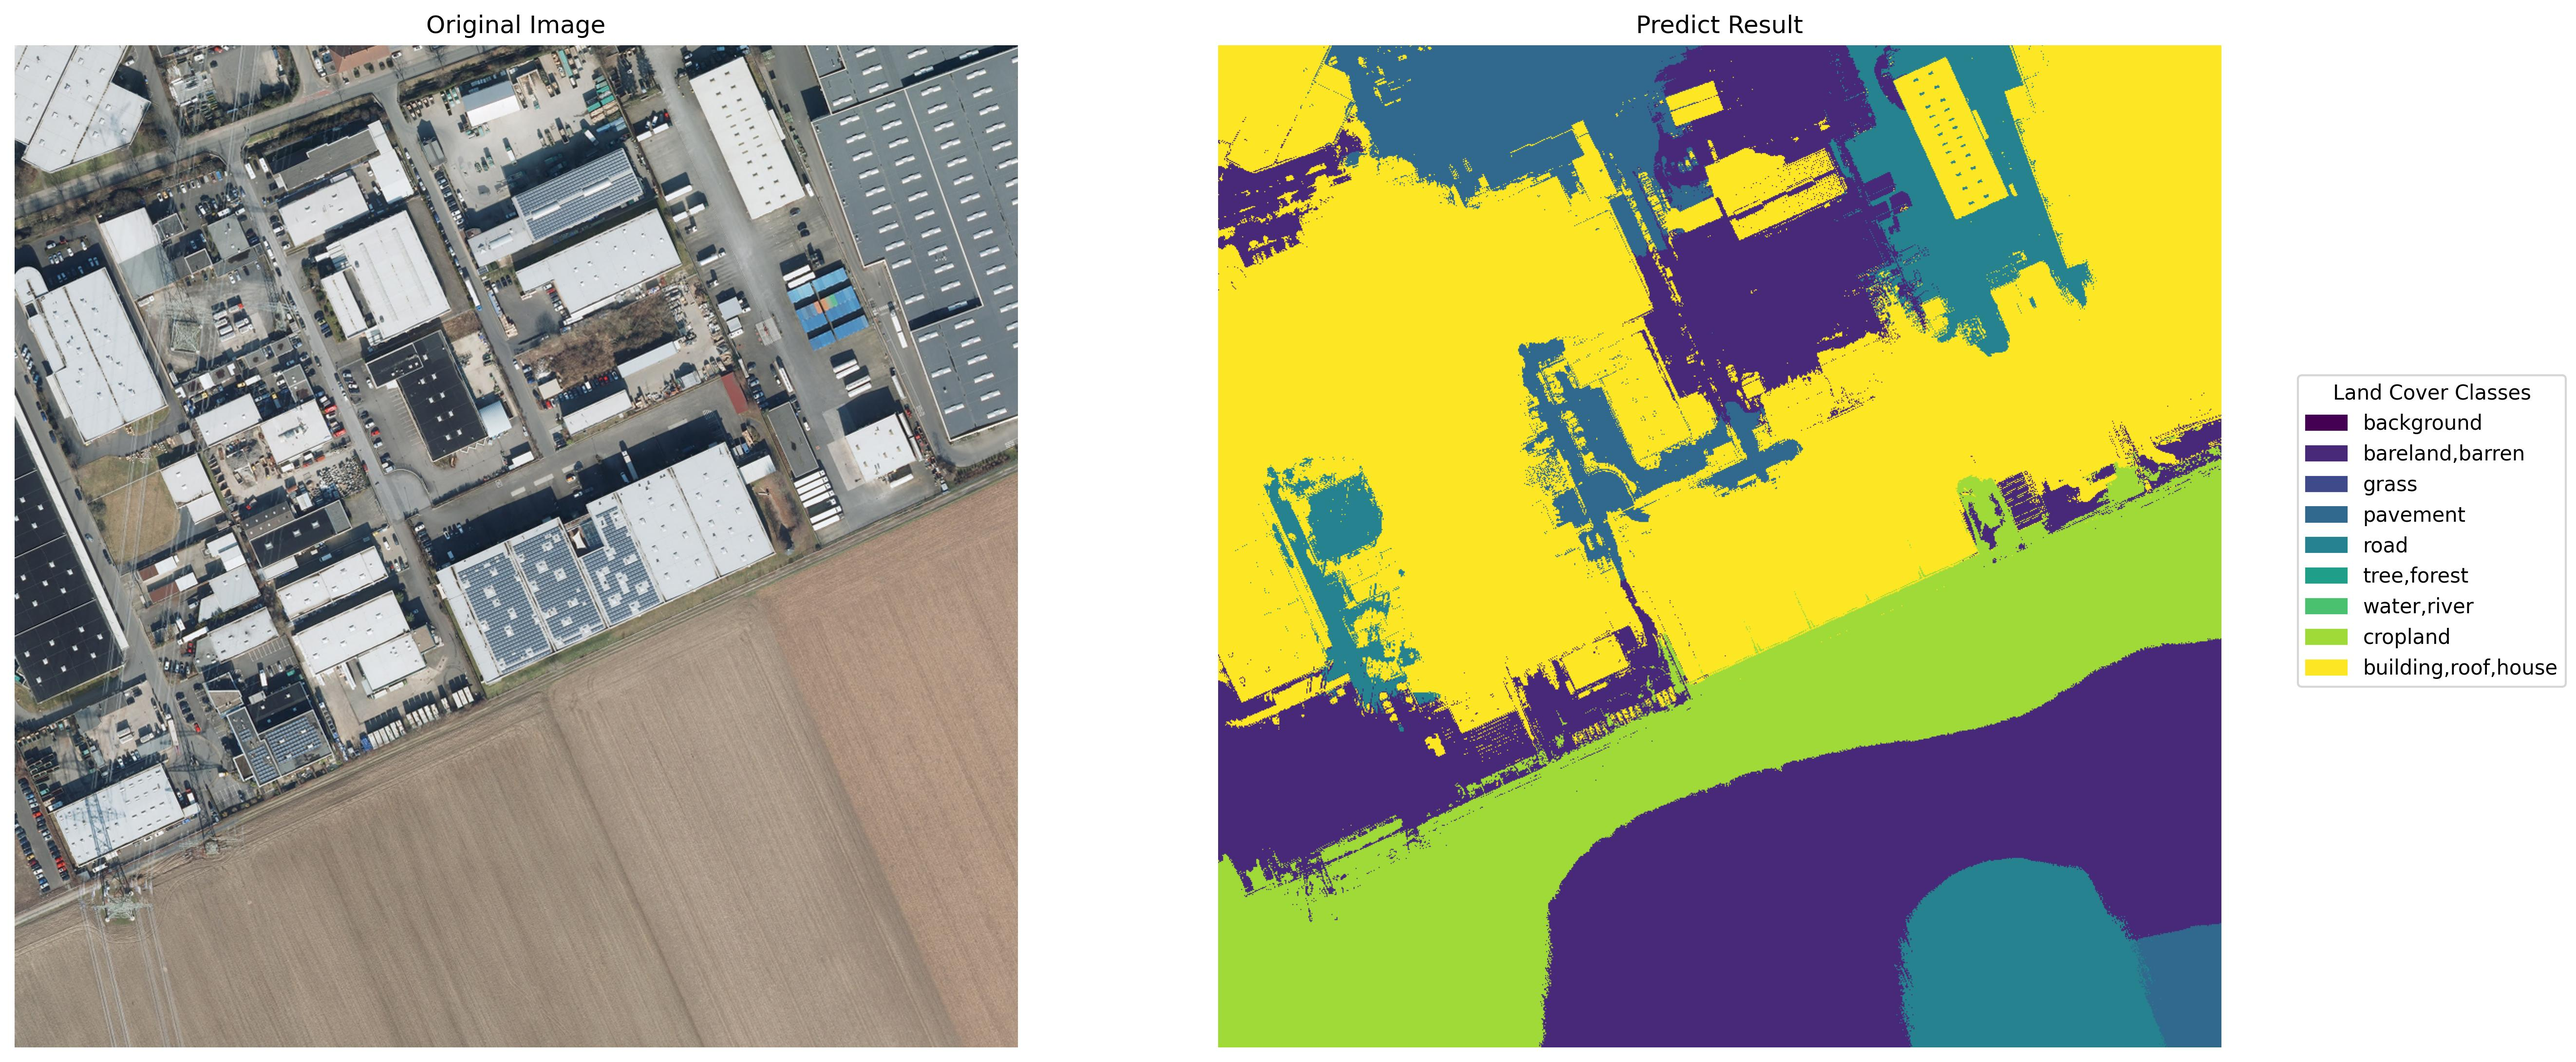
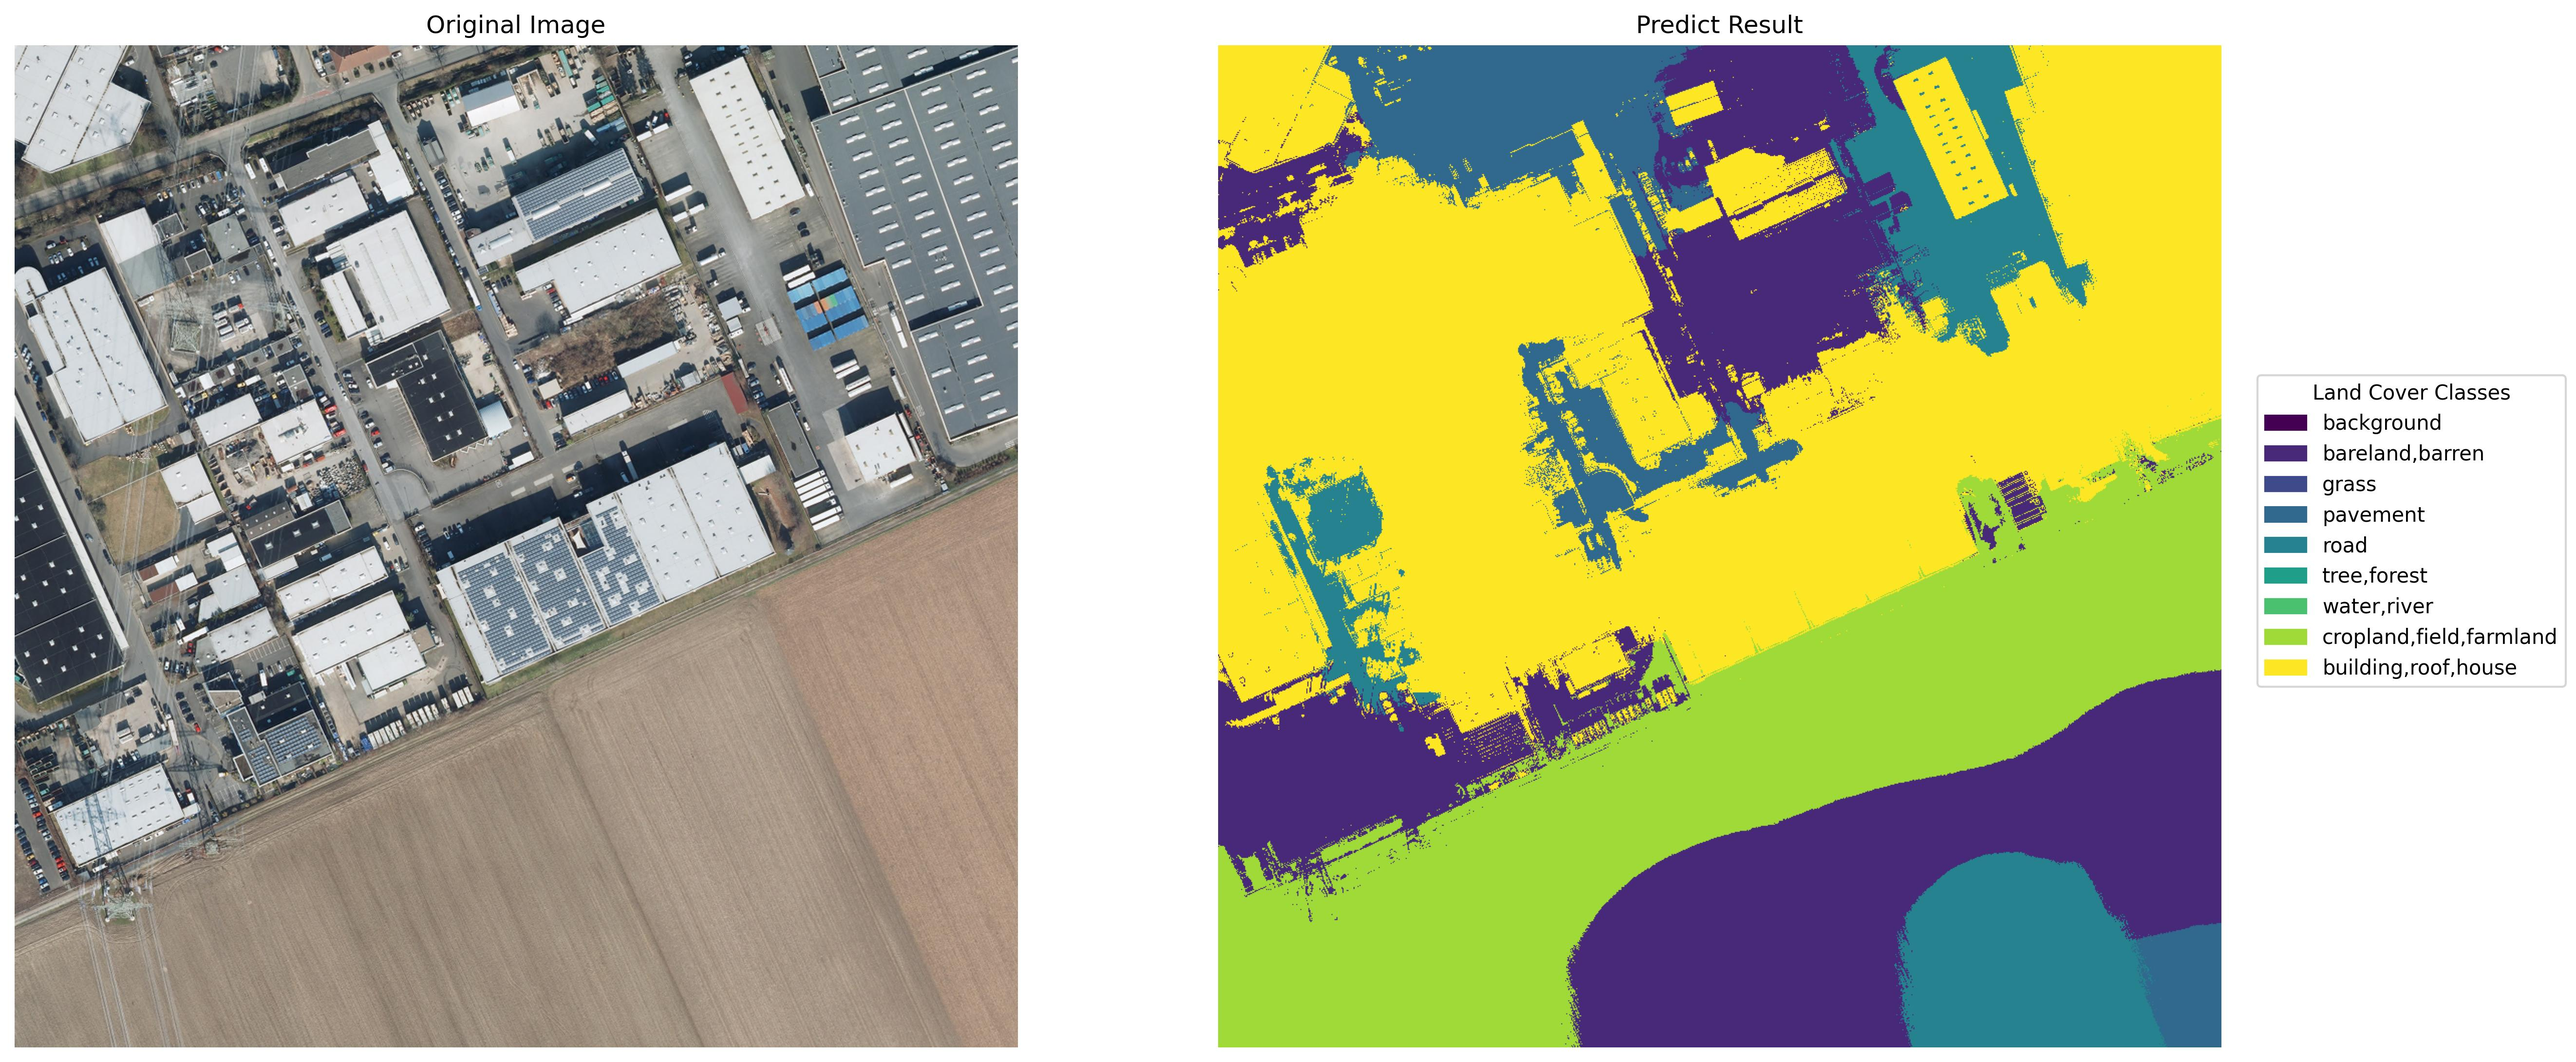
emmm

diff --git a/infer.py b/infer.py
@@ -69,7 +69,7 @@ def main():
 
     # 类别定义与配色
     classnames = ['background', 'bareland,barren', 'grass', 'pavement', 'road',
-             'tree,forest', 'water,river', 'cropland', 'building,roof,house']
+             'tree,forest', 'water,river', 'cropland,field', 'building,roof,house']
     custom_palette = [
         (68, 1, 84), (72, 40, 120), (62, 74, 137), (49, 104, 142),
         (38, 130, 142), (31, 158, 137), (73, 193, 110), (160, 218, 57), (253, 231, 37)
